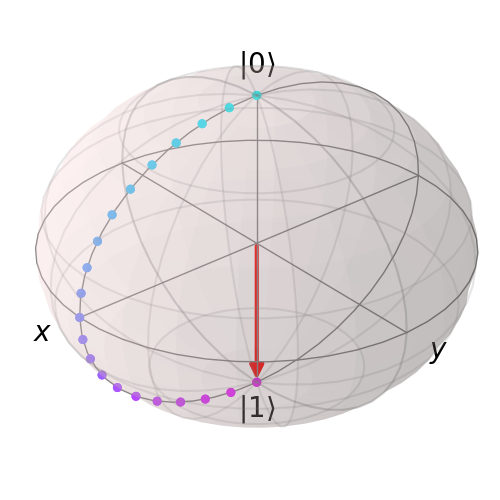
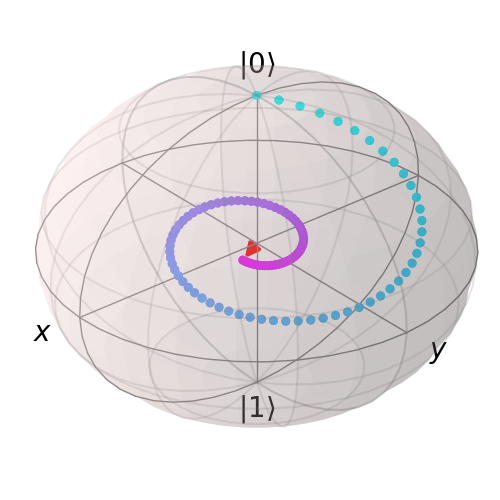
fixed minor erros, still trying to print multiple vectors

diff --git a/bloch.py b/bloch.py
@@ -6,17 +6,19 @@ import imageio
 from tkinter import Canvas, PhotoImage, Tk, mainloop
 from math import cos, sin, pi
 from PIL.Image import Image
+import gui 
 
 def animate_bloch_states(states, save_file, duration=0.1, save_all=False):
     b = Bloch()
     b.vector_color = ['r']
     b.view = [-40, 30]
-    images = []
     try:
         length = len(states)
     except:
         length = 1
         states = [states]
+    
+    images = [None] * length  # setting length of images array to help decrease time gif is created
     # normalize colors to the length of data ##
     nrm = mpl.colors.Normalize(0, length)
     colors = cm.cool(nrm(range(length)))  # options: cool, summer, winter, autumn etc.
@@ -26,18 +28,17 @@ def animate_bloch_states(states, save_file, duration=0.1, save_all=False):
     b.point_marker = ['o']
     b.point_size = [30]
 
-    for i in range(length):
+    for j in range(length):
         b.clear()
-        b.add_states(states[i])
-        b.add_states(states[:(i + 1)], 'point')
+        b.add_states(states[j])
+        b.add_states(states[:(j + 1)], 'point')
         if save_all:
             b.save(dirc='tmp')  # saving images to tmp directory
-            filename = "tmp/bloch_%01d.png" % i
+            filename = "tmp/bloch_%01d.png" % j
         else:
             filename = 'temp_file.png'
             b.save(filename)
         images[j] = (imageio.imread(filename))  # combines all the images into one gif (one image)
-
     imageio.mimsave(save_file, images, duration=duration)
     # calling gui.py file -> passing in the gif
     gui.main(save_file)
@@ -51,9 +52,9 @@ def animate_multiple_states(vect_complex_arr, save_file, numV, duration=0.1, sav
     
 
     # customize sphere properties ##
-    b.point_color = list(colors)  # options: 'r', 'g', 'b' etc.
-    b.point_marker = ['o']
-    b.point_size = [30]
+    # b.point_color = list(colors)  # options: 'r', 'g', 'b' etc.
+    # b.point_marker = ['o']
+    # b.point_size = [30]
 
 def external_animate_bloch_multiple(numV, alpha_reals, alpha_imags, beta_reals, beta_imags, filename):
     if(len(alpha_reals)!= numV):

diff --git a/test_external_animate.py b/test_external_animate.py
@@ -31,4 +31,4 @@ for i in range(0, 100):
 #     alphasI[i] = 0
 #     betasR[i] = (np.sin(omega * i))
 #     betasI[i] = 0
-# b.external_animate_bloch(alphasR, alphasI, betasR, betasI, 'test2')
+external_animate_bloch(alphasR, alphasI, betasR, betasI, 'test2')
